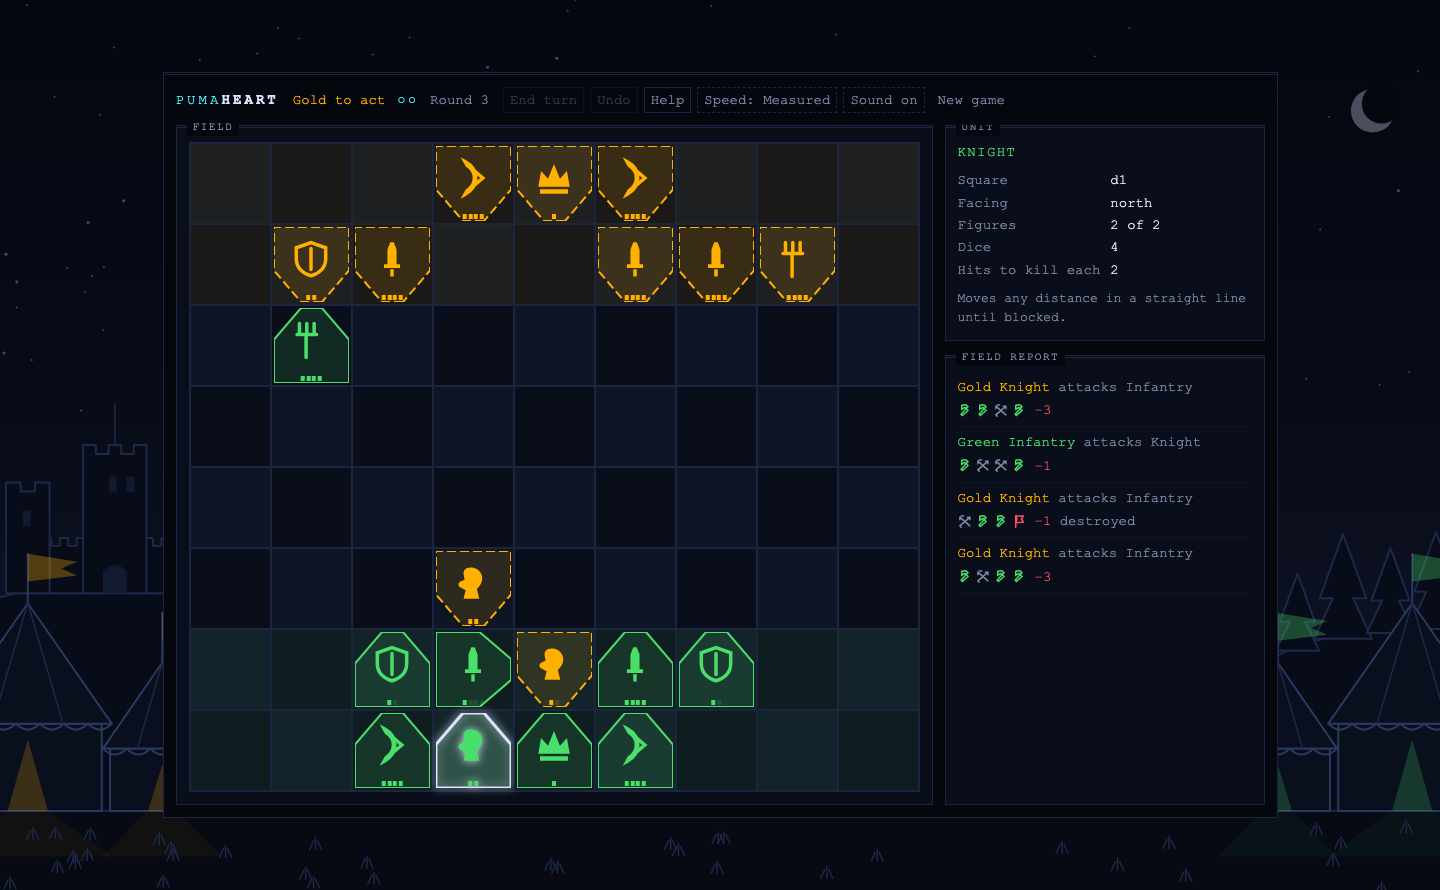
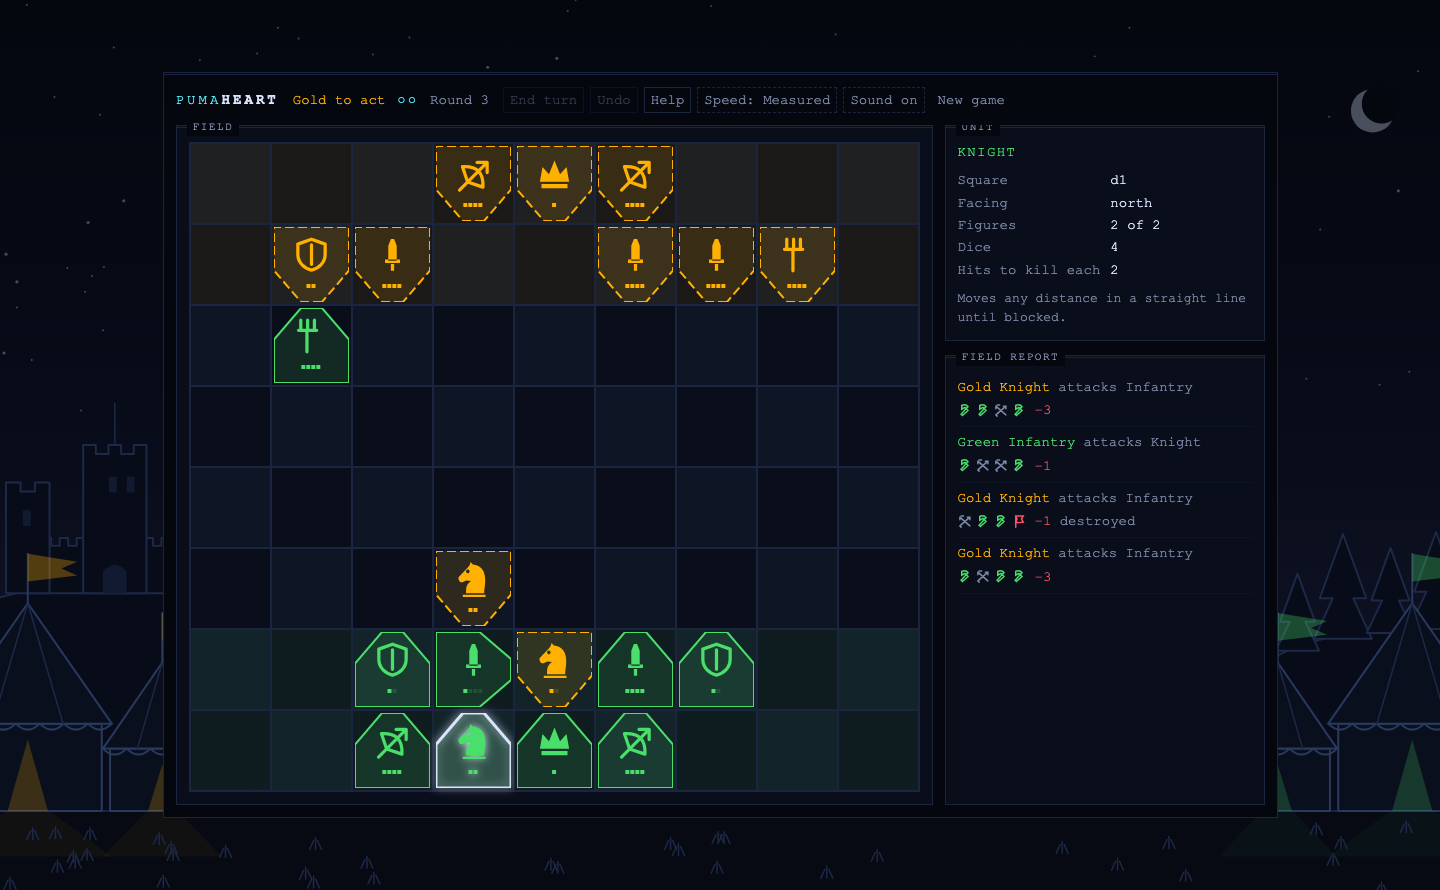
A knight that reads as a knight, an archer with an arrow, and pips that clear the base
THE KNIGHT is now the chess knight's horse head: ear, muzzle, an eye
knocked out, a plinth under it. The old head had neither ear nor muzzle
and read as a boxing glove.

THE ARCHER is a drawn bow on the diagonal, string pulled back and an
arrow nocked through it, set low in its box so the arrowhead clears the
base's shaved front corner. The old arc-and-chevron had no string and no
shaft and read as a boomerang. Horizontal was tried and collapses to a
crossed circle at 32px; the diagonal gives the arrow room. Both were
judged on real bases at 32, 56 and 96px squares in both armies' colours.

THE PIPS sat 2px off the base's bottom edge at a fixed 4x5px. A base
turned east or west puts its shaved corner across the end of that row,
and the pips poked through the outline -- by 0.5px at 96px squares and
3.4px at 39px. They are now raised and sized with the square, and the
glyph is a little smaller and higher to make room (56% to 52%). Measured
against every unit in all four facings: 9.6px clear of the outline at
96px squares, 2.5px at 39px, never closer than 2.6px to the glyph.

.fl glyphs fill evenodd, so the knight's eye can be knocked out; .ln
glyphs join round. README screenshots re-rendered.

diff --git a/index.html b/index.html
@@ -379,18 +379,28 @@ body {
 .u.is-sel .base path { stroke: var(--sel); stroke-width: 3; }
 .u.is-sel { filter: drop-shadow(0 0 4px var(--sel)); }
 
-.u svg:not(.base) { width: 56%; height: 56%; margin-bottom: 16%; position: relative; }
-.u svg.fl path { fill: currentColor; }
-.u svg.ln path { fill: none; stroke: currentColor; stroke-width: 2; stroke-linecap: round; }
+.u svg:not(.base) { width: 52%; height: 52%; margin-bottom: 26%; position: relative; }
+/* evenodd, so a glyph can knock a detail out of itself -- the knight's eye. */
+.u svg.fl path { fill: currentColor; fill-rule: evenodd; }
+.u svg.ln path { fill: none; stroke: currentColor; stroke-width: 2; stroke-linecap: round; stroke-linejoin: round; }
 
 /* The figure count is the single most important number in the game -- it is
    at once the unit's toughness AND its dice pool -- so it is drawn, not
    merely implied. */
+/* Raised off the base's edge and sized with the square, so a full row
+   clears the border in every facing. At 2px off the bottom, a base turned
+   east or west put its shaved corner across the end of the row -- the
+   pips poked through the outline by up to 3px on a small board. Measured:
+   9.6px clear at 96px squares, 2.5px at 39px, the worst facing each time. */
 .u .pips {
-  position: absolute; bottom: 2px; left: 50%; transform: translateX(-50%);
-  display: flex; gap: 1.5px;
+  position: absolute; bottom: calc(var(--sq) * 0.17); left: 50%; transform: translateX(-50%);
+  display: flex; gap: max(1px, calc(var(--sq) * 0.016));
 }
-.u .pips i { width: 4px; height: 5px; background: currentColor; }
+.u .pips i {
+  width: clamp(2.5px, calc(var(--sq) * 0.048), 5px);
+  height: clamp(3px, calc(var(--sq) * 0.058), 6px);
+  background: currentColor;
+}
 /* A spent figure reads as ABSENT, not as an outlined box: at 32px a 1px
    outline is indistinguishable from a fill, so the length of the bar has to
    carry the count. */
@@ -1984,10 +1994,18 @@ function commit() {
    ============================================================ */
 const UNIT_GLYPH = {
   king: "M3 17l1.6-9 4 4.4L12 4l3.4 8.4 4-4.4L21 17zM4 18.4h16V21H4z",
-  knight: "M8.6 3.4c3.4-1 7 .6 8.2 3.6 1.4 3.4-.4 6.4-2.6 8.4l1.4 5.6H6.6l1.2-4.8-3-1.6c-1.6-1-1.4-3 .4-3.6l2-.8-.6-3.4c-.2-1.6.8-2.8 2-3.4z",
+  /* The chess knight's horse head, the one silhouette everyone already
+     reads as "knight": ear, muzzle, an eye knocked out, a plinth under it.
+     The old head had no ear or muzzle and read as a boxing glove. */
+  knight: "M7.4 21V19.4C7.4 16.6 8.6 15 10.4 13.6L7.6 13.2 5.6 14.2C4.6 14.6 3.6 14.2 3.2 13.4L2.8 12.4C2.6 11.8 2.8 11.2 3.2 10.8L8.2 5.6 9.6 3.8 10.2 1.8 11.6 3.4C14.6 3.6 17.2 5.2 18.4 8.2 19.6 11.2 19.4 15 18.6 19.4V21ZM9.6 7.6a1.1 1.1 0 1 0 0 .01ZM5.4 22h14v1.4h-14z",
   heavy: "M12 2.6l8.4 3v6.2c0 5.4-4.2 8.8-8.4 9.8-4.2-1-8.4-4.4-8.4-9.8V5.6zM12 6v12",
   infantry: "M11 2.4h2l1.6 4.2v9.2h-5.2V6.6zM7.4 15h9.2v2.2H7.4zM11 17.8h2V22h-2z",
-  archer: "M7.4 2.6C11.8 5 13.6 8.8 13.6 12s-1.8 7-6.2 9.4l1.2-2.2c3-2 4.2-4.6 4.2-7.2s-1.2-5.2-4.2-7.2zM8.6 4.4l9 7.6-9 7.6",
+  /* A drawn bow on the diagonal, string pulled back and an arrow nocked
+     through it. The old arc-and-chevron had no string and no shaft, and
+     read as a boomerang; the diagonal is what gives the arrow room to be
+     an arrow at 18px. Set low in its box: centred, the arrowhead crowded
+     the base's shaved front corner. */
+  archer: "M5.2 7.8Q18.6 7 17.8 20.4M5.2 7.8L8.4 17.2 17.8 20.4M3.4 22.2L20.4 5.2M14.2 5.2H20.4V11.4",
   mercenary: "M12 2l2.4 5.2L12 9.6 9.6 7.2zM11 9.6h2V22h-2zM13 10.6h6.4v4.4H13z",
   peasant: "M5.4 2.6v6.2M9.6 2.6v6.2M13.8 2.6v6.2M4 8.8h11.2M9.2 8.8V22",
 };
